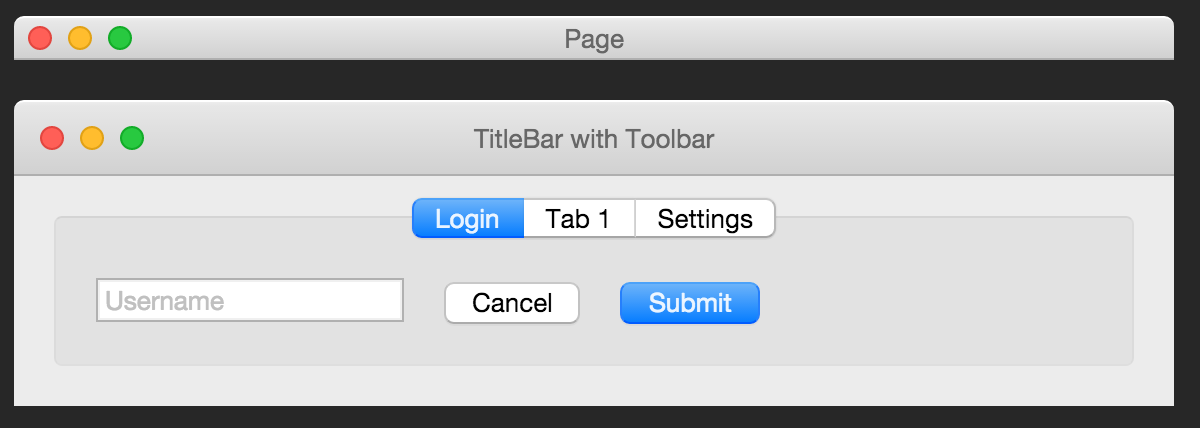
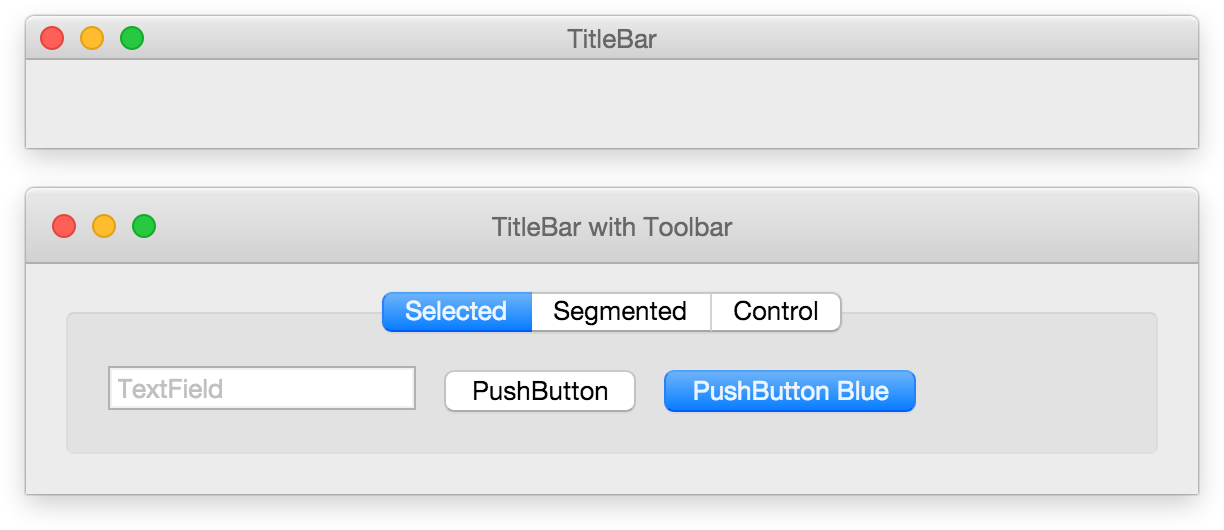
Imrpoved styling

diff --git a/playground/playground.js b/playground/playground.js
@@ -5,39 +5,45 @@ import { TitleBar, PushButton, TextField, Toolbar, Box, SegmentedControl } from 
 ReactDOM.render(
   (
     <div>
-      <TitleBar title="Page" controls={true}/>
-      <TitleBar title="TitleBar with Toolbar" controls={true} className="no-margin-bottom">
-        <Toolbar/>
-      </TitleBar>
+      <div className="window-shadow">
+        <TitleBar title="TitleBar" controls={true}/>
+        <div className="window"/>
+      </div>
 
-      <div className="window">
-        <Box className="box">
-          <SegmentedControl>
-            <SegmentedControl.Item
-              title="Login"
-              selected={true}
-              onPress={() => { console.log('select login'); } }
-            >
-              <TextField defaultValue="" placeholder="Username"/>
+      <div className="window-shadow">
+        <TitleBar title="TitleBar with Toolbar" controls={true} className="no-margin-bottom">
+          <Toolbar/>
+        </TitleBar>
 
-              <PushButton>Cancel</PushButton>
-              <PushButton color="blue">Submit</PushButton>
-            </SegmentedControl.Item>
-            <SegmentedControl.Item
-              title="Tab 1"
-              selected={false}
-              onPress={() => { console.log('select tab 1'); } }
-            >
-            </SegmentedControl.Item>
-            <SegmentedControl.Item
-              title="Settings"
-              selected={false}
-              onPress={() => { console.log('select settings'); } }
-            >
-            </SegmentedControl.Item>
-          </SegmentedControl>
-        </Box>
+        <div className="window">
+          <Box className="box">
+            <SegmentedControl>
+              <SegmentedControl.Item
+                title="Selected"
+                selected={true}
+                onPress={() => { console.log('select login'); } }
+              >
+                <TextField defaultValue="" placeholder="TextField"/>
 
+                <PushButton>PushButton</PushButton>
+                <PushButton color="blue">PushButton Blue</PushButton>
+              </SegmentedControl.Item>
+              <SegmentedControl.Item
+                title="Segmented"
+                selected={false}
+                onPress={() => { console.log('select tab 1'); } }
+              >
+              </SegmentedControl.Item>
+              <SegmentedControl.Item
+                title="Control"
+                selected={false}
+                onPress={() => { console.log('select settings'); } }
+              >
+              </SegmentedControl.Item>
+            </SegmentedControl>
+          </Box>
+
+        </div>
       </div>
     </div>
   ),

diff --git a/src/SegmentedControl/Tab.js b/src/SegmentedControl/Tab.js
@@ -16,11 +16,11 @@ var styles = {
     borderRightWidth: '1px',
     borderRightStyle: 'solid',
     borderRightColor: '#d8d8d8',
-    paddingTop: '1.5px',
-    paddingBottom: 0,
+    paddingTop: '1px',
+    paddingBottom: '1px',
     paddingLeft: '11px',
     paddingRight: '11px',
-    lineHeight: '16.5px',
+    lineHeight: '16px',
     fontFamily: '"San Francisco", "Helvetica Neue", "Lucida Grande"',
     fontSize: '13px',
     boxShadow: '0 1px rgba(0, 0, 0, .039), 0 0 .5px rgba(0, 0, 0, .1)',
@@ -48,6 +48,7 @@ var styles = {
       borderTopColor: '#4ca2f9',
       borderBottomColor: '#015cff',
       borderLeftColor: '#267ffc',
+      borderRightColor: '#267ffc',
       color: 'rgba(255, 255, 255, .9)',
       borderRightWidth: '0px',
       paddingRight: '12px',
@@ -55,10 +56,10 @@ var styles = {
 
       ':active': {
         backgroundImage: '-webkit-linear-gradient(top, #4c98fe 0%, #0564e3 100%) !important',
-        borderTopColor: '#247fff',
-        borderBottomColor: '#003ddb',
-        borderLeftColor: '#125eed',
-        borderRightColor: '#125eed',
+        borderTopColor: '#247fff !important',
+        borderBottomColor: '#003ddb !important',
+        borderLeftColor: '#125eed !important',
+        borderRightColor: '#125eed !important',
         color: 'rgba(255, 255, 255, .9)'
       }
     },
@@ -123,11 +124,17 @@ class Tab extends Component {
       if (this.props.firstChild) {
         styles = mergeStyles(styles, { paddingLeft: '11px' });
       }
+      if (this.props.lastChild) {
+        styles = mergeStyles(styles, { borderRightWidth: '1px' });
+      }
       activeStyles = this.styles.selected[':active'];
     } else if (this.state.selected) {
       styles = mergeStyles(styles, this.styles.selectedUnfocused);
       if (this.props.firstChild) {
         styles = mergeStyles(styles, { paddingLeft: '11px' });
+      }
+      if (this.props.lastChild) {
+        styles = mergeStyles(styles, { borderRightWidth: '1px' });
       }
     }
 

diff --git a/src/SegmentedControl/Tabs.js b/src/SegmentedControl/Tabs.js
@@ -7,7 +7,7 @@ var styles = {
     WebkitUserSelect: 'none',
     cursor: 'default',
     position: 'absolute',
-    top: '-10px',
+    top: '-11px',
     left: 0,
     width: '100%',
     display: 'flex',
@@ -31,11 +31,12 @@ class Tabs extends Component {
       if (i === 0) {
         props = Object.assign({}, props, { firstChild: true });
       }
+
       if (i === (len - 1)) {
         props = Object.assign({}, props, { lastChild: true });
       }
 
-      if (this.props.tabs[i + 1] && this.props.tabs[i + 1].props.selected) {
+      if (this.props.tabs[i + 1] && this.props.tabs[i + 1].props && this.props.tabs[i + 1].props.selected) {
         props = Object.assign({}, props, { nextSelected: true });
       }
 

diff --git a/playground/style.css b/playground/style.css
@@ -1,18 +1,24 @@
 body {
-  margin: 20px;
+  padding: 30px 40px;
   font-family: serif;
-  background: #272727;
+  background: white;
   max-width: 600px;
 }
 
 #main>div>*, input, button {
   -webkit-appearance: none;
-  margin-right: 20px;
+  margin-right: 14px;
   margin-bottom: 20px;
 }
 
 .no-margin-bottom {
   margin-bottom: 0 !important;
+}
+
+.window-shadow {
+  border-top-left-radius: 4px;
+  border-top-right-radius: 4px;
+  box-shadow: 0 0 1px rgba(0, 0, 0, .55),  0 5px 20px rgba(0, 0, 0, .2);
 }
 
 .window {
@@ -21,7 +27,7 @@ body {
 }
 
 .box {
-  padding: 24px 20px 0 20px !important;
+  padding: 16px 20px 0 20px;
 }
 
 .form {

diff --git a/src/TitleBar.js b/src/TitleBar.js
@@ -10,13 +10,13 @@ var styles = {
     display: 'flex',
     alignItems: 'center',
     height: '20px',
-    backgroundImage: '-webkit-linear-gradient(top, #ededed 0px, #e7e7e7 2px, #d1d1d1 100%)',
+    backgroundImage: '-webkit-linear-gradient(top, #ededed 0, #ededed 1px, #e7e7e7 2px, #d1d1d1 100%)',
     borderBottomWidth: '1px',
     borderBottomStyle: 'solid',
     borderBottomColor: '#afafaf',
     borderTopWidth: '1px',
     borderTopStyle: 'solid',
-    borderTopColor: '#ffffff',
+    borderTopColor: '#f6f6f6',
     borderTopLeftRadius: '5px',
     borderTopRightRadius: '5px',
     paddingLeft: '3px',

diff --git a/src/Box.js b/src/Box.js
@@ -33,7 +33,7 @@ class Box extends Component {
   }
 
   render() {
-    const { children, style, ...props } = this.props;
+    const { children, style, className, ...props } = this.props;
     const hasSegmentedControls = typeof children === 'object' && children.type === SegmentedControl;
 
     let styles = this.styles;
@@ -43,7 +43,9 @@ class Box extends Component {
 
     return (
       <div {...props} style={applyStyle(styles)}>
-        {this.props.children}
+        <div className={className}>
+          {this.props.children}
+        </div>
       </div>
     );
   }

diff --git a/README.md b/README.md
@@ -42,7 +42,7 @@ Electron.js. As such, everyone is welcome to contribute and add more components.
 
 ## Screenshots
 
-<img src="https://raw.githubusercontent.com/gabrielbull/react-desktop/master/docs/screenshots/osx.png" width="600">
+<img src="https://raw.githubusercontent.com/gabrielbull/react-desktop/master/docs/screenshots/osx.png" width="612">
 
 ## Usage
 
